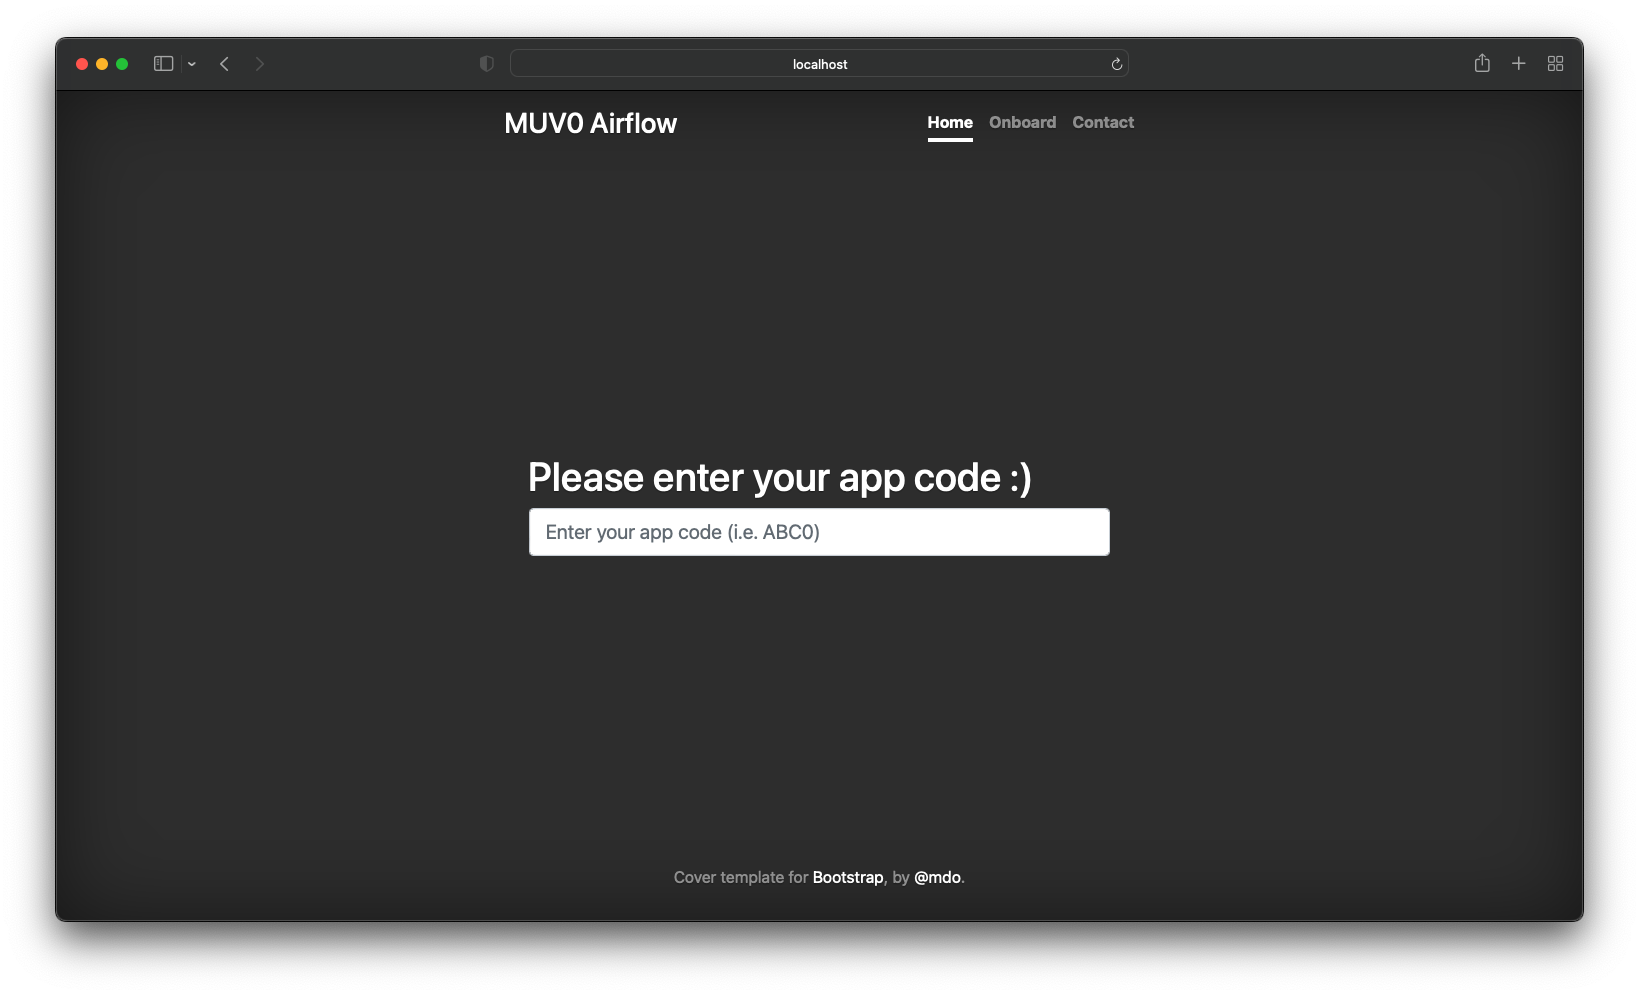
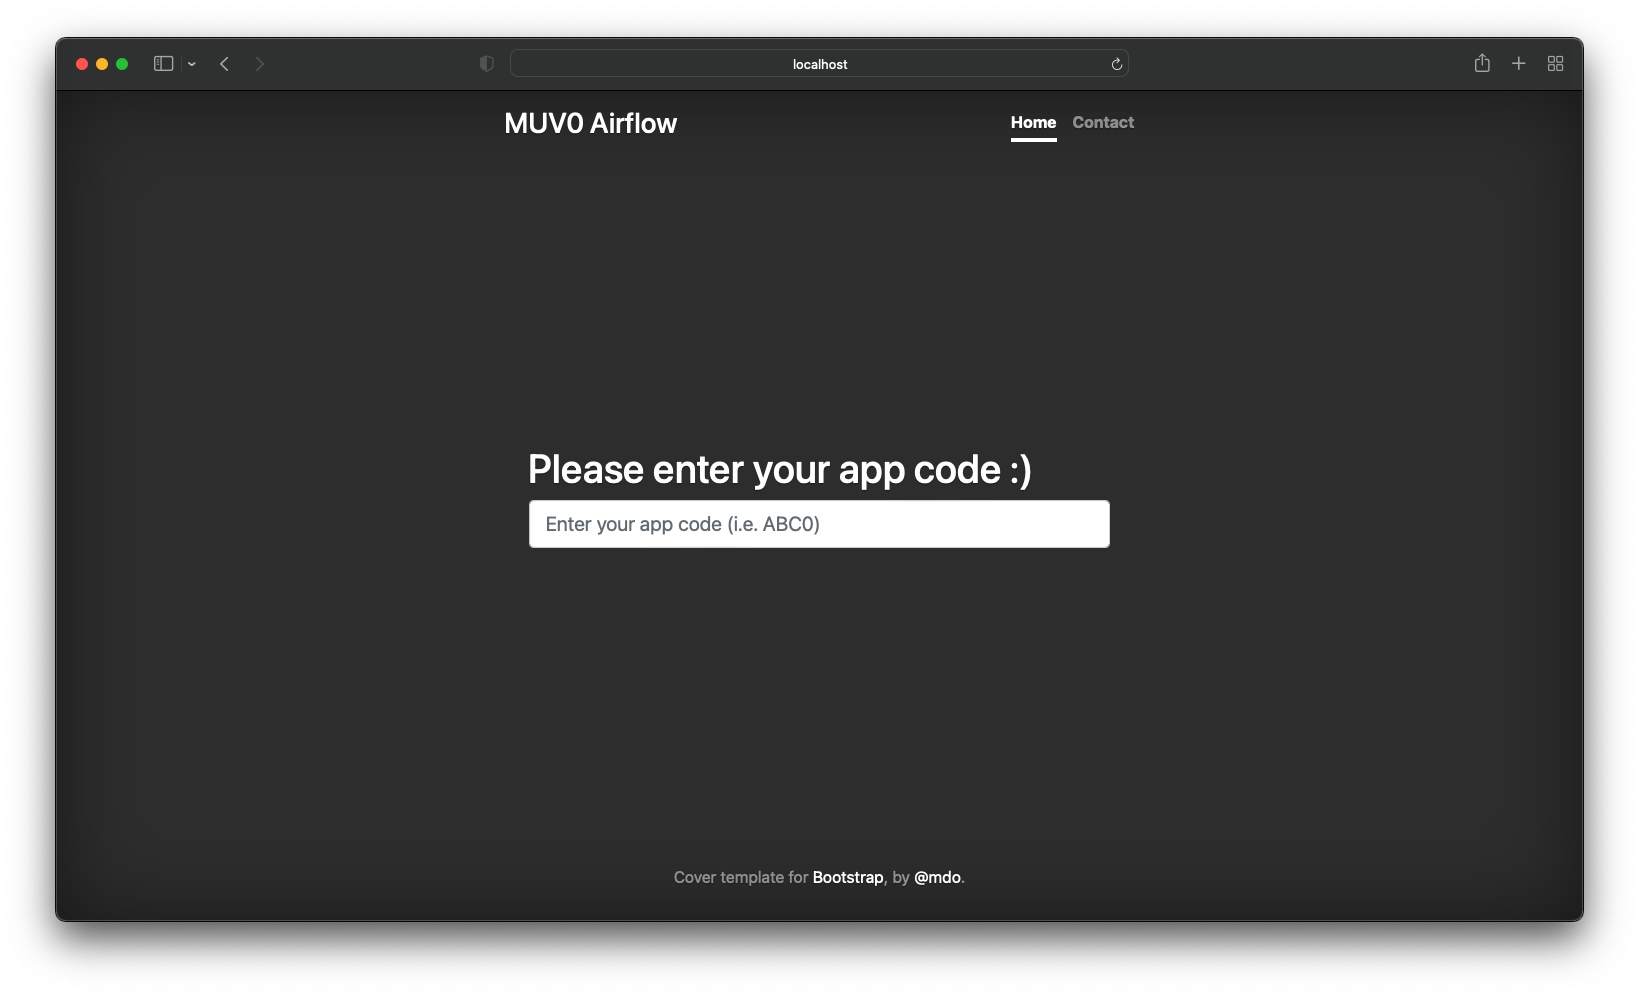
form build (front end only) (#3)

Changed region(s): [[0.3112, 0.4362, 0.6846, 0.5608], [0.5601, 0.0935, 0.6534, 0.1558]]

diff --git a/templates/submit.html b/templates/submit.html
@@ -30,11 +30,22 @@
       </header>
 
       <main role="main" class="inner cover">
-        <h1 class="cover-heading"> Please enter your app code :)&nbsp;&nbsp;&nbsp;&nbsp;&nbsp;&nbsp;&nbsp;&nbsp;&nbsp; </h1>
-        <form action="/submit" method="POST">
-        <div class="form-group">
-          <input class="form-control form-control-lg" type="text" placeholder="Enter your app code (i.e. ABC0)" aria-label=".form-control-lg example" name="appcode">
-        </div>
+        <h1 class="cover-heading"> Your appcode : {{ appcode }}</h1>
+        </br>
+        </br>
+        <h3 class="cover-heading">LDAP configuration </h3>
+        </br>
+        <p> DEV/SAI : APP_MUV0_{{ appcode }}_USER &nbsp;&nbsp;&nbsp;</p>
+        <p> DEV/SAI : APP_MUV0_{{ appcode }}_VIEWER</p>
+        <p> PROD : APP_MUV0_{{ appcode }}_VIEWER&nbsp;&nbsp;&nbsp;</p>
+        </br>
+        </br>
+        <h3 class="cover-heading">Pool configuration </h3>
+        </br>
+        <p>{{ appcode }}_pool=10</p>
+        </br>
+        </br>
+        <h6 class="cover-heading"> Thank you for your onboarding:)&nbsp;&nbsp;&nbsp;&nbsp;</h6>
       </main>
 
       <footer class="mastfoot mt-auto">

diff --git a/templates/index.html b/templates/index.html
@@ -24,7 +24,6 @@
           <h3 class="masthead-brand">MUV0 Airflow</h3>
           <nav class="nav nav-masthead justify-content-center">
             <a class="nav-link active" href="/">Home</a>
-            <a class="nav-link" href="form">Onboard</a>
             <a class="nav-link" href="contact">Contact</a>
           </nav>
         </div>
@@ -35,7 +34,7 @@
         <h2 class="cover-heading"> Onboard your new appcode's config</h2>
         <p class="lead">LDAP and Airflow pool config</p>
         <p class="lead">
-          <a href="#" class="btn btn-lg btn-secondary">Start</a>
+          <a href="form" class="btn btn-lg btn-secondary">Start</a>
         </p>
       </main>
 

diff --git a/templates/contact.html b/templates/contact.html
@@ -24,7 +24,6 @@
           <h3 class="masthead-brand">MUV0 Airflow</h3>
           <nav class="nav nav-masthead justify-content-center">
             <a class="nav-link active" href="/">Home</a>
-            <a class="nav-link" href="form">Onboard</a>
             <a class="nav-link" href="contact">Contact</a>
           </nav>
         </div>

diff --git a/app.py b/app.py
@@ -1,19 +1,24 @@
-from flask import Flask, render_template
+from flask import Flask, render_template, request
 import os
 
 app = Flask(__name__, template_folder="templates")
 
-@app.route('/', methods=['POST', 'GET'])
+@app.route('/')
 def home():
     return render_template("index.html")
 
-@app.route('/contact', methods=['GET'])
+@app.route('/contact')
 def contact():
     return render_template("contact.html")
 
-@app.route('/form', methods=['POST', 'GET'])
+@app.route('/form')
 def form():
     return render_template("form.html")
+
+@app.route('/submit',  methods=['POST'])
+def submit():
+    appcode = request.form.get("appcode")
+    return render_template("submit.html", appcode=appcode)
 
 if __name__ == "__main__":
     port = int(os.environ.get("PORT", 3000))

diff --git a/README.md b/README.md
@@ -11,7 +11,8 @@ Flask app to deploy ldap.yaml and airflow_pool.yaml changes
 (Backend logic is not ready yet.. WIP)
 
 ![Screenshot](images/onboard_page.png)
-
+![Screenshot](images/onboard_page(2).png)
+![Screenshot](images/submit_page.png)
 # Contact page
 ![Screenshot](images/contact_page.png)
 
